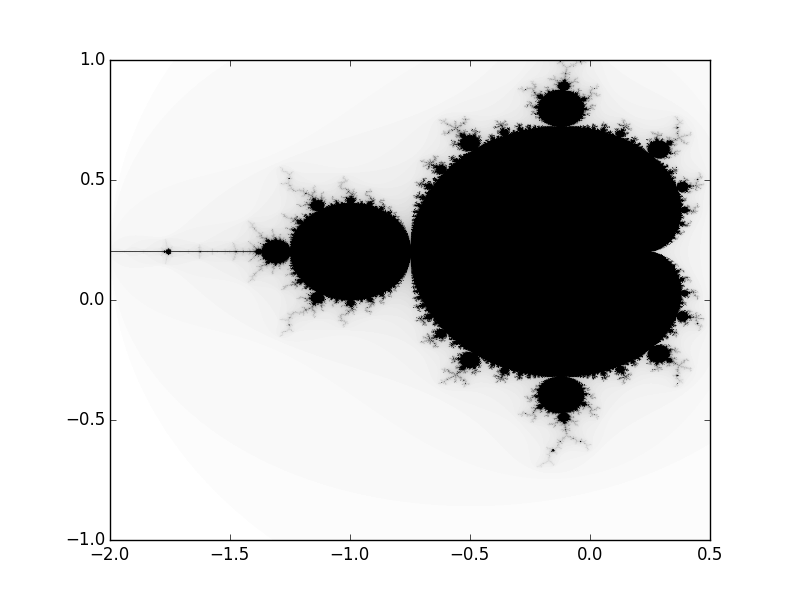
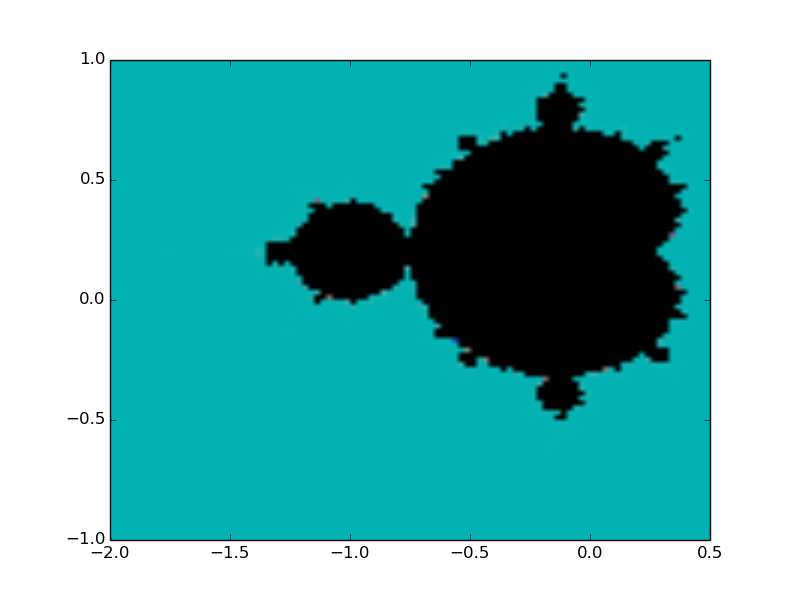
Attempt to fix colormapping
This still needs improvement

diff --git a/assignment4/mandelbrot_1.py b/assignment4/mandelbrot_1.py
@@ -34,7 +34,7 @@ def create_mandelbrot_set():
     y_start = -1
     x_stop = 0.5
     y_stop = 1
-    n = 1000
+    n = 100
     threshold = 1000
     dx = (x_stop - x_start)/float(n - 1)
     dy = (y_stop - y_start)/float(n - 1)
@@ -50,7 +50,13 @@ def create_mandelbrot_set():
             if abs_z <= 2:
                 A[j][i] = [0, 0, 0] # Color pixel black if it is in the mandelbrot set (i.e., abs_z <= 2)
             else:
-                A[j][i] = [1 - counter/float(threshold), 1 - counter/float(threshold), 1 - counter/float(threshold)]
+                if counter < threshold/3.0:
+                    color = [counter/float(threshold), 0.7, 0.7]
+                elif counter < 2*threshold/3.0:
+                    color = [0.5, counter/float(threshold), 0.5]
+                else:
+                    color = [0.2, 0.2, counter/float(threshold)]
+                A[j][i] = color
 
     figure(1)
     imshow(A, extent=[x_start, x_stop, y_start, y_stop])
